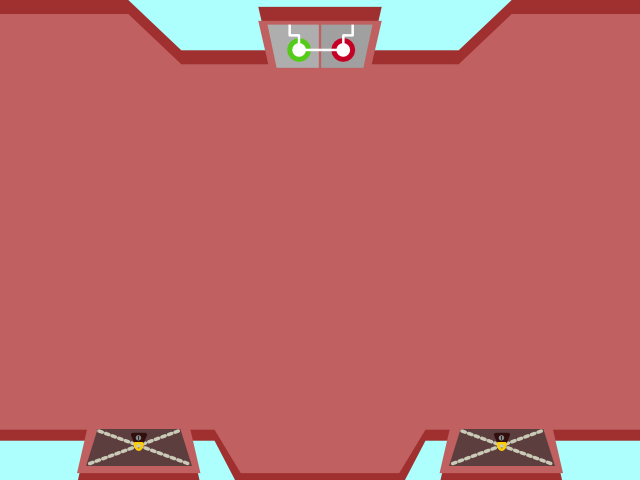
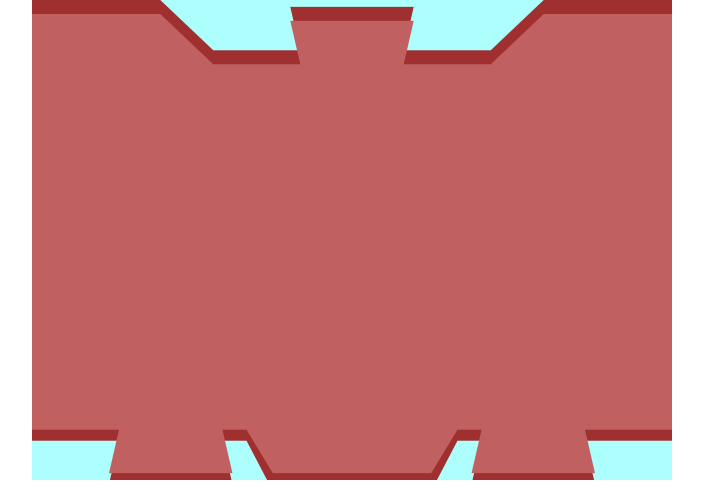
Adding Images

Changed region(s): [[0.0, 0.0, 1.0, 1.0], [0.1875, 0.0, 0.8125, 0.1562]]

diff --git a/resources.js b/resources.js
@@ -12,7 +12,12 @@ var spr_redDown = new Sprite('resources/redDown.png', { width: 58, height: 35, y
 
 var spr_mainMenu = new Sprite('resources/MainMenu.png', {width: 640, height:480});
 
-//var spr_bDoor = new Sprite('resources/bDoor.png', {width: 60, height: 60});
+//var spr_john = new Sprite('resources/john.jpg', {width: 200, height: 200});
+
+var spr_dialDoors = new Sprite('resources/DialDoors.png', {width: 106, height: 47});
+var spr_lockedDoor_l = new Sprite('resources/LockedDoor.png', {width: 110, height: 41, xOffset: -181});
+var spr_lockedDoor_r = new Sprite('resources/LockedDoor.png', {width: 110, height: 41, xOffset: 181});
+
 
 // Rigid Body
 
@@ -47,6 +52,10 @@ go_room01.addComponent(rb_wallTop, "top wall");
 go_room01.addComponent(rb_wallRight, "right wall");
 go_room01.addComponent(rb_wallBottom, "bottom wall");
 
+var go_chainDoors = new GameObject();
+go_chainDoors.addComponent(spr_lockedDoor_l, "sprite_l");
+go_chainDoors.addComponent(spr_lockedDoor_r, "sprite_r");
+
 var go_green = new GameObject({x:100,y:250});
 go_green.addComponent(spr_greenUp, "sprite");
 go_green.addComponent(rb_green, "body");
@@ -55,8 +64,8 @@ var go_red = new GameObject({ x: 500, y: 250 });
 go_red.addComponent(spr_redUp, "sprite");
 go_red.addComponent(rb_red, "body");
 
-var go_bDoor = new GameObject({ x: 300, y: 100 });
-//go_bDoor.addComponent(spr_bDoor, "sprite");
+var go_bDoor = new GameObject({ x: 320, y: 44 });
+go_bDoor.addComponent(spr_dialDoors, "sprite");
 //go_bDoor.addComponent(rb_bDoor, "body");
 
 var go_buttonSystem = new GameObject();
@@ -67,13 +76,15 @@ go_buttonSystem.addComponent(script_twoButtons, "script");
 
 var go_SampleObject = new GameObject();
 go_SampleObject.addComponent(script_sample, "Sample Script");
+go_SampleObject.addComponent(spr_john, "sprite");
 
 var go_mainMenu = new GameObject();
 go_mainMenu.addComponent(script_mainMenu, "input");
 go_mainMenu.addComponent(spr_mainMenu, "sprite");
 
-
-
+//var go_speedGauge = new GameObject();
+//go_speedGauge.addComponent(spr_speedGauge, "tier");
+//go_speedGauge.addComponent(spr_dial, "dial");
 
 
 

diff --git a/scenes.js b/scenes.js
@@ -10,7 +10,10 @@ var Level_1 = new Scene("Level 1");
 Level_1.onLoad = function()
 {
   Level_1.add(go_character, {x:320, y:240, name: "Main Character"});
-  Level_1.add(go_room01, {x:320, y:240, z:-2});
-  Level_1.add(go_buttonSystem, {z:-1});
-  Level_1.add(go_SampleObject, {name: "test"})
+  Level_1.add(go_room01, {x:320, y:240, z:-3});
+  Level_1.add(go_chainDoors, {x:320, y:447.6, z:-2});
+  Level_1.add(go_buttonSystem, {z:-2});
+  
+  //Level_1.add(go_SampleObject, {name: "test", x:320, y:240, z:5})
+  //Level_1.add(go_speedGauge, {name: "guage", x: 320,y: 240,z:5})
 }

diff --git a/game.js b/game.js
@@ -14,8 +14,8 @@ InputManager.add("enter", [13,32]);
 
 sceneManager.drawDebug = true;
 sceneManager.init();
-//sceneManager.play("Level 1");
-sceneManager.play("Main Menu");
+sceneManager.play("Level 1");
+//sceneManager.play("Main Menu");
 requestAnimFrame(sceneManager.run);
 
 //MainMenu.setCamera(200,220);

diff --git a/JoJoEngine.js b/JoJoEngine.js
@@ -402,7 +402,7 @@ function SceneManager()
   {
     world = new b2World(new b2Vec2(0,0), true);
     world.SetContactListener(listener);
-    world.SetDebugDraw(debugDraw);
+    //world.SetDebugDraw(debugDraw);
     
     for (var i=0; i<this.activeScenes.length; i++)
     {
